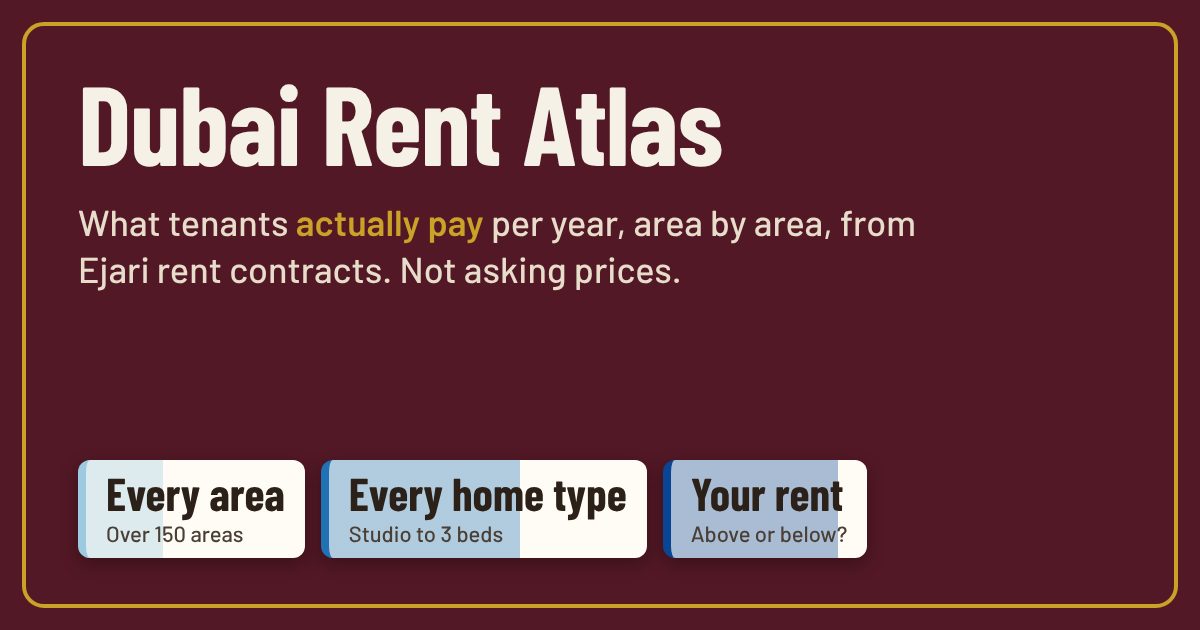
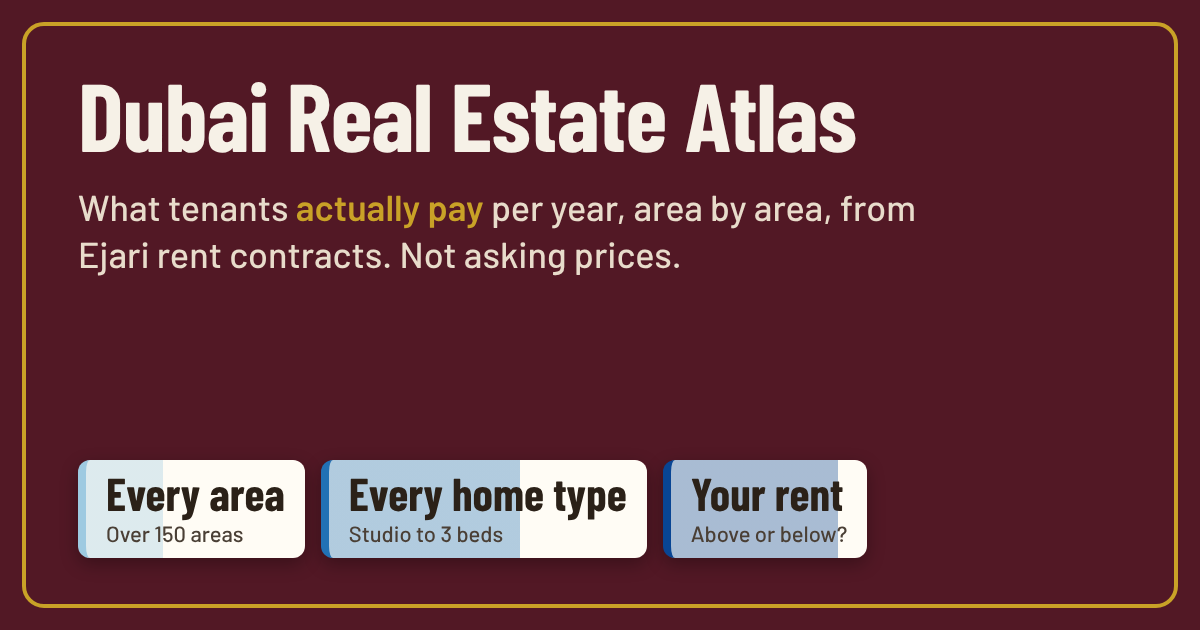
Rename to Dubai Real Estate Atlas
Visible name changed everywhere (English and Arabic), including link
previews, share text, area preview pages, reminders, export file name, share
image, workflow name and docs. Storage key and reminder IDs kept so saved
areas and calendar events keep working. Header buttons get their own row
above the longer title.

Claude-Session: https://claude.ai/code/session_01Cjh7JMxbY7R8pJuUa6JLcr

Changed region(s): [[0.0617, 0.3016, 0.7708, 0.4524], [0.0617, 0.1206, 0.7092, 0.2714]]

diff --git a/assets/app/i18n.js b/assets/app/i18n.js
@@ -20,7 +20,7 @@
 
   // Fixed page text, by its data-t key (index.html).
   const STATIC = {
-    title: 'أطلس إيجارات دبي',
+    title: 'أطلس دبي العقاري',
     tagline: 'ما <b>يدفعه المستأجرون فعلًا</b> سنويًا، من عقود الإيجار المسجلة في نظام إيجاري لدى دائرة الأراضي والأملاك في دبي. وليست أسعارًا معروضة.',
     filters: 'التصفية', ptype: 'نوع العقار', done: 'تم',
     'f.search': 'المجتمع أو المبنى', 'f.search.ph': 'مثلًا: JVC أو Marina أو Karama',
@@ -71,7 +71,7 @@
     ', to {d}': '، حتى {d}',
     '<b>New figures since your last visit</b>: rents now run to {to} (was {from}).': '<b>أرقام جديدة منذ زيارتك الأخيرة</b>: تمتد الإيجارات الآن حتى {to} (كانت حتى {from}).',
     "<b>The rent data didn't load.</b> This is usually a brief network hiccup.": '<b>لم يتم تحميل بيانات الإيجار.</b> غالبًا ما يكون ذلك خللًا عابرًا في الشبكة.',
-    'A reminder you set on Dubai Rent Atlas to see how rents have moved. Delete this event to stop it.': 'تذكير ضبطته في أطلس إيجارات دبي لمتابعة تغيّر الإيجارات. احذف هذا الحدث لإيقافه.',
+    'A reminder you set on Dubai Real Estate Atlas to see how rents have moved. Delete this event to stop it.': 'تذكير ضبطته في أطلس دبي العقاري لمتابعة تغيّر الإيجارات. احذف هذا الحدث لإيقافه.',
     'AED per m²': 'درهم لكل م²',
     'AED {v} per m² a year': 'AED {v} لكل م² سنويًا',
     'Add to my calendar': 'أضف إلى تقويمي',
@@ -112,7 +112,7 @@
     'Dubai Data has not published a newer update yet, so changes since then are not shown.': 'لم تنشر Dubai Data تحديثًا أحدث بعد، لذا لا تظهر التغييرات منذ ذلك الحين.',
     'Dubai Data page': 'صفحة Dubai Data',
     'Dubai Land Department Ejari contracts': 'عقود إيجاري لدى دائرة الأراضي والأملاك في دبي',
-    'Dubai Rent Atlas': 'أطلس إيجارات دبي',
+    'Dubai Real Estate Atlas': 'أطلس دبي العقاري',
     'Everything': 'الكل',
     'Every 3 months': 'كل 3 أشهر',
     'Every 6 months': 'كل 6 أشهر',
@@ -188,7 +188,7 @@
     'Switch to dark mode': 'التبديل إلى الوضع الداكن',
     'Switch to light mode': 'التبديل إلى الوضع الفاتح',
     'Tell me what changed when I come back': 'أخبرني بما تغيّر عند عودتي',
-    'That file is not a Dubai Rent Atlas export.': 'هذا الملف ليس ملف تصدير من أطلس إيجارات دبي.',
+    'That file is not a Dubai Real Estate Atlas export.': 'هذا الملف ليس ملف تصدير من أطلس دبي العقاري.',
     'That is in the cheapest quarter.': 'هذا ضمن الربع الأرخص.',
     'That is in the dearest quarter.': 'هذا ضمن الربع الأغلى.',
     'That is within the middle half.': 'هذا ضمن النصف الأوسط.',
@@ -301,7 +301,7 @@
   // Translate the page's fixed text and wire the language button.
   if (doc) {
     if (LANG === 'ar') {
-      doc.title = 'أطلس إيجارات دبي | إيجاري';
+      doc.title = 'أطلس دبي العقاري | إيجاري';
       doc.querySelectorAll('[data-t]').forEach(el => { const v = STATIC[el.dataset.t]; if (v) el.innerHTML = v; });
       doc.querySelectorAll('[data-t-ph]').forEach(el => { const v = STATIC[el.dataset.tPh]; if (v) el.placeholder = v; });
       doc.querySelectorAll('[data-t-aria]').forEach(el => { const v = STATIC[el.dataset.tAria]; if (v) el.setAttribute('aria-label', v); });

diff --git a/assets/app/companion.js b/assets/app/companion.js
@@ -302,7 +302,7 @@
       uid: 'market-check-every-' + months + '@dubai-rent-atlas',
       title: T('Check Dubai rents') + (first ? ': ' + first.area : ''),
       date: RI.addMonths(new Date().toISOString().slice(0, 10), months), everyMonths: months, alarmDays: 0,
-      details: T('A reminder you set on Dubai Rent Atlas to see how rents have moved. Delete this event to stop it.'),
+      details: T('A reminder you set on Dubai Real Estate Atlas to see how rents have moved. Delete this event to stop it.'),
       url: first ? siteUrl(first.area, first.unit) : location.origin + location.pathname,
     }), 'text/calendar');
   }
@@ -337,7 +337,7 @@
     const text = f ? T('{what} in {area}: {aed} a year (median), from Ejari contracts.', { what: unit ? U(unit) : T('All homes'), area: area.label, aed: aed(f.median) })
       : T('Rents in {area}, from Ejari contracts.', { area: area.label });
     if (navigator.share && matchMedia('(pointer:coarse)').matches) {
-      try { await navigator.share({ title: T('Dubai Rent Atlas'), text, url }); } catch { /* closed the sheet */ }
+      try { await navigator.share({ title: T('Dubai Real Estate Atlas'), text, url }); } catch { /* closed the sheet */ }
       return;
     }
     let ok = false;
@@ -410,7 +410,7 @@
         case 'clear-history': store.history = []; save(); renderMine(); break;
         case 'every-ics': everyIcs(); break;
         case 'seen': store.seenThrough = THROUGH; save(); el('ckNew').hidden = true; break;
-        case 'export': download('dubai-rent-atlas-my-data.json', JSON.stringify(store, null, 2), 'application/json'); break;
+        case 'export': download('dubai-real-estate-atlas-my-data.json', JSON.stringify(store, null, 2), 'application/json'); break;
         case 'wipe':
           if (confirm(T('Delete your saved areas, recent checks and settings from this browser?'))) {
             try { localStorage.removeItem(KEY); } catch (err) { /* nothing stored */ }
@@ -440,7 +440,7 @@
           for (const s of incoming.saved) if (RI.isSaved(store, s.area, s.unit) < 0) store.saved.push(s);
           store.saved = store.saved.slice(0, RI.MAX_SAVED); store.prefs = incoming.prefs;
           save(); renderMine();
-        }).catch(() => alert(T('That file is not a Dubai Rent Atlas export.')));
+        }).catch(() => alert(T('That file is not a Dubai Real Estate Atlas export.')));
       }
     });
     map.on('popupopen', onPopup);

diff --git a/index.html b/index.html
@@ -1,14 +1,14 @@
 <!doctype html>
 <html lang="en"><head><meta charset="utf-8"><meta name="viewport" content="width=device-width,initial-scale=1,viewport-fit=cover">
-<title>Dubai Rent Atlas | Ejari</title>
+<title>Dubai Real Estate Atlas | Ejari</title>
 <meta name="description" content="What tenants actually pay in rent across Dubai, area by area, from Ejari contracts registered with the Dubai Land Department. Not asking prices.">
-<meta property="og:type" content="website"><meta property="og:site_name" content="Dubai Rent Atlas">
-<meta property="og:title" content="Dubai Rent Atlas: what tenants actually pay">
+<meta property="og:type" content="website"><meta property="og:site_name" content="Dubai Real Estate Atlas">
+<meta property="og:title" content="Dubai Real Estate Atlas: what tenants actually pay">
 <meta property="og:description" content="Median yearly rent for every Dubai area, from Ejari contracts. Check your rent in seconds.">
 <meta property="og:url" content="https://jamalxcode.github.io/dubai_map/">
 <meta property="og:image" content="https://jamalxcode.github.io/dubai_map/assets/share.png">
 <meta property="og:image:width" content="1200"><meta property="og:image:height" content="630">
-<meta property="og:image:alt" content="Dubai Rent Atlas: what tenants actually pay, from Ejari contracts">
+<meta property="og:image:alt" content="Dubai Real Estate Atlas: what tenants actually pay, from Ejari contracts">
 <meta name="twitter:card" content="summary_large_image">
 <meta name="theme-color" content="#521825">
 <script>/* Theme before first paint: saved choice, else the phone/computer setting. */
@@ -32,7 +32,7 @@ document.documentElement.lang=l;document.documentElement.dir=l==='ar'?'rtl':'ltr
   <button class="theme" id="theme" type="button" aria-label="Switch to dark mode"><svg viewBox="0 0 24 24" fill="none" stroke="currentColor" stroke-width="2.2" stroke-linecap="round" stroke-linejoin="round" aria-hidden="true"><path d="M21 12.8A9 9 0 1 1 11.2 3a7 7 0 0 0 9.8 9.8z"/></svg><span>Dark</span></button></div>
   <div class="wrap">
     <div>
-      <h1 id="title" data-t="title">Dubai Rent Atlas</h1>
+      <h1 id="title" data-t="title">Dubai Real Estate Atlas</h1>
       <p data-t="tagline">What tenants <b>actually pay</b> per year, from rent contracts registered in Ejari with the Dubai Land Department. Not asking prices.</p>
     </div>
     <div class="big" aria-live="polite">

diff --git a/assets/app/atlas.css b/assets/app/atlas.css
@@ -406,3 +406,9 @@ html.viewerOpen,html.viewerOpen body{overflow:hidden}
 .viewSw button[aria-pressed="true"]{background:var(--sign);color:var(--on-sign)}
 .viewSw button:focus-visible{outline:2px solid var(--focus);outline-offset:-2px}
 @media (max-width:400px){.viewSw button{padding:0 7px;font-size:12px;height:32px}}
+/* "Dubai Real Estate Atlas" is long: the language and theme buttons get their own row above the title
+   instead of sharing its line, at every width. */
+.band .wrap{padding-top:66px}
+.band h1{padding-inline-end:0}
+@media (max-width:860px){.band .wrap{padding-top:54px}}
+@media (min-width:1100px){.band .wrap{padding-top:52px}.band h1,:root[lang="ar"] .band h1{padding-inline-end:0}}

diff --git a/assets/app/insights.js b/assets/app/insights.js
@@ -220,7 +220,7 @@
     const stamp = new Date().toISOString().replace(/[-:]/g, '').replace(/\.\d+Z$/, 'Z');
     const next = new Date(Date.parse(opts.date + 'T00:00:00Z') + 864e5).toISOString().slice(0, 10);
     const lines = [
-      'BEGIN:VCALENDAR', 'VERSION:2.0', 'PRODID:-//Dubai Rent Atlas//EN', 'CALSCALE:GREGORIAN', 'BEGIN:VEVENT',
+      'BEGIN:VCALENDAR', 'VERSION:2.0', 'PRODID:-//Dubai Real Estate Atlas//EN', 'CALSCALE:GREGORIAN', 'BEGIN:VEVENT',
       'UID:' + opts.uid, 'DTSTAMP:' + stamp, 'DTSTART;VALUE=DATE:' + ymd(opts.date), 'DTEND;VALUE=DATE:' + ymd(next),
       'SUMMARY:' + icsEsc(opts.title), 'DESCRIPTION:' + icsEsc(opts.details + (opts.url ? '\n' + opts.url : '')),
     ];

diff --git a/assets/app/labels.js b/assets/app/labels.js
@@ -1,4 +1,4 @@
-/* Map label placement for the Dubai Rent Atlas: no DOM, no Leaflet, so the rules are unit-tested
+/* Map label placement for the Dubai Real Estate Atlas: no DOM, no Leaflet, so the rules are unit-tested
  * (tests/labels.test.mjs). The page projects areas to pixels, asks for placements, then draws them.
  *
  *   RentLabels.place(items, size, { pad, sum, blocks })

diff --git a/scripts/share_pages.py b/scripts/share_pages.py
@@ -61,20 +61,20 @@ def page(a, through):
     url = SITE + "a/" + slug(a["label"]) + "/"
     return f"""<!doctype html>
 <html lang="en"><head><meta charset="utf-8"><meta name="viewport" content="width=device-width,initial-scale=1">
-<title>{e(title)} | Dubai Rent Atlas</title>
+<title>{e(title)} | Dubai Real Estate Atlas</title>
 <meta name="description" content="{e(desc)}">
 <link rel="canonical" href="{e(url)}">
-<meta property="og:type" content="website"><meta property="og:site_name" content="Dubai Rent Atlas">
+<meta property="og:type" content="website"><meta property="og:site_name" content="Dubai Real Estate Atlas">
 <meta property="og:title" content="{e(title)}"><meta property="og:description" content="{e(desc)}">
 <meta property="og:url" content="{e(url)}"><meta property="og:image" content="{e(IMAGE)}">
 <meta property="og:image:width" content="1200"><meta property="og:image:height" content="630">
-<meta property="og:image:alt" content="Dubai Rent Atlas: what tenants actually pay, from Ejari contracts">
+<meta property="og:image:alt" content="Dubai Real Estate Atlas: what tenants actually pay, from Ejari contracts">
 <meta name="twitter:card" content="summary_large_image">
 <meta http-equiv="refresh" content="0;url={e(target)}">
 <script>(function(){{var u=new URLSearchParams(location.search).get('unit');
 location.replace({json.dumps(target)}+(u?'&unit='+encodeURIComponent(u):''))}})();</script>
 </head><body style="font-family:system-ui,sans-serif;padding:24px">
-<p><a href="{e(target)}">{e(title)}: open the Dubai Rent Atlas</a></p>
+<p><a href="{e(target)}">{e(title)}: open the Dubai Real Estate Atlas</a></p>
 </body></html>
 """
 

diff --git a/tests/test_share_pages.py b/tests/test_share_pages.py
@@ -24,7 +24,7 @@ class SharePageTests(unittest.TestCase):
 
     def test_page_leads_with_one_bedroom_and_forwards_to_the_map(self):
         html = sp.page(JVC, "2026-11-13")
-        self.assertIn("<title>Jumeirah Village Circle rents: AED 70,000 a year for a 1-bedroom apartment | Dubai Rent Atlas</title>", html)
+        self.assertIn("<title>Jumeirah Village Circle rents: AED 70,000 a year for a 1-bedroom apartment | Dubai Real Estate Atlas</title>", html)
         self.assertIn('property="og:image" content="https://jamalxcode.github.io/dubai_map/assets/share.png"', html)
         self.assertIn("to 13 Nov 2026", html)
         self.assertIn('url=../../?area=Jumeirah%20Village%20Circle"', html)

diff --git a/scripts/check_fresh.py b/scripts/check_fresh.py
@@ -112,7 +112,7 @@ def main():
     summary = os.environ.get("GITHUB_STEP_SUMMARY")
     if summary:
         with open(summary, "a", encoding="utf-8") as f:
-            f.write("## Dubai Rent Atlas freshness\n\n" + report + "\n")
+            f.write("## Dubai Real Estate Atlas freshness\n\n" + report + "\n")
     sys.exit(1 if found else 0)
 
 

diff --git a/docs/DECISIONS.md b/docs/DECISIONS.md
@@ -1,4 +1,4 @@
-# Dubai Rent Atlas: design notes, goals and decision log
+# Dubai Real Estate Atlas: design notes, goals and decision log
 
 **Last updated:** 2026-11-10  
 **Repository:** `jamalxcode/dubai_map`  
@@ -354,6 +354,10 @@ The owner: in dark mode the price labels don't follow the price key. They were d
 
 The owner asked for rent, sale price and gross yield buttons on the map, the key following the value, with the 5% edge rule. A **Rent · Sale price · Yield** switch sits on the map (top right), kept in step with the "Labels show" menu. Each view recolours the labels with the same blue scale, its own key trimmed to the 5th-95th percentile (today, 1-bedroom: rent AED 38k-120k, sale AED 660k-2.75M, yield 5.2%-8.6%), its own legend title and ends, dial top and headline ("Average sale price in view"). Sale prices per bedroom count now come through the build from Dubai Data (`by_unit.sale`); for Flats and Studios a rent-contract-weighted "typical" sale price, as for rents. The 56 older districts have rents only, so they appear in the rent view only. A view without data is hidden.
 
+## Decision on 2026-11-17 (thirty-sixth pass): renamed to Dubai Real Estate Atlas
+
+The owner renamed the site "Dubai Real Estate Atlas" (Arabic: أطلس دبي العقاري), which fits now that it shows sale prices and yields as well as rents. Changed everywhere a person sees it: page title, header, link previews and share text, area preview pages, calendar reminders, the export file name, the share image, the deploy workflow's name and the docs. Kept on purpose: the browser storage key (`rentAtlas`, so visitors keep their saved areas) and the calendar reminder IDs (so existing reminders aren't duplicated). The longer title gets its own row under the language and theme buttons at every width. The repository and site address (`dubai_map`) are unchanged.
+
 ## Prioritized next work
 
 **Status on 2026-11-16:** P0 is done (Dubai Data fallback, live Pages deploy, data checks and fixtures). P1 is built and tested; the daily feed waits for the Dubai Pulse key (DLD's own service is off until DLD agrees in writing). P2 item 6 is partly done: every area sits at a point inside its official Dubai Municipality community; shaded outlines are next. P2 item 7 is partly done (per-bedroom medians, rent dial and shading; ranges and trends wait for contract-level data). P3 item 10 is done: tests (Python, Node, Chromium + axe), phone layout, accessibility in light, dark and Arabic, and the front-end split with self-hosted libraries. Since 16 Nov the site is also in Arabic, shares with link previews, shows photos near each area and lets the visitor pick the base map's language.
@@ -396,6 +400,8 @@ The owner asked for rent, sale price and gross yield buttons on the map, the key
 - OSM copyright: https://www.openstreetmap.org/copyright
 
 ## Change log
+
+- 2026-11-17: Renamed to Dubai Real Estate Atlas.
 
 - 2026-11-17: Rent, sale price and yield views on the map, each with its own trimmed key.
 

diff --git a/docs/CONVERSATION.md b/docs/CONVERSATION.md
@@ -211,6 +211,10 @@ The dark cards turned the blue tints grey-brown. Price labels now stay light ivo
 
 A Rent · Sale price · Yield switch on the map; each view has its own key from the 5th to 95th percentile of its values (1-bedroom today: rent AED 38k-120k, sale AED 660k-2.75M, yield 5.2%-8.6%), and the legend, dials and headline follow. Sale prices per bedroom count added to the data build.
 
+### 17 Nov · "change the name to dubai real estate atlas, not dubai rent atlas"
+
+Renamed everywhere visible (English and Arabic: أطلس دبي العقاري), including link previews, share text, reminders and the share image; saved areas and reminders keep working. The header buttons now sit on their own row above the longer title. The site address stays https://jamalxcode.github.io/dubai_map/.
+
 ## Open items
 
 1. **Dubai Pulse API key** (owner, **waiting on Digital Dubai support** since 16 Nov): data.dubai's sign-up page rejects visitors from outside the UAE. Once access to `dld_rent_contracts-open-api` is granted, add `DUBAI_PULSE_KEY` / `DUBAI_PULSE_SECRET` as repo secrets. This unlocks contract-level detail (trends, AED/m², new vs renewal) and replaces the interim sources.

diff --git a/CLAUDE.md b/CLAUDE.md
@@ -4,7 +4,7 @@ Guidance for Claude Code sessions in this repository.
 
 ## Overview
 
-Dubai Rent Atlas (https://jamalxcode.github.io/dubai_map/) maps what tenants actually pay in yearly rent across Dubai, area by area, from Ejari contracts registered with the Dubai Land Department. Python collectors run in GitHub Actions three times a day and publish small JSON files; the site is a static page (no build step) in English and Arabic.
+Dubai Real Estate Atlas (https://jamalxcode.github.io/dubai_map/) maps what tenants actually pay in yearly rent across Dubai, area by area, from Ejari contracts registered with the Dubai Land Department. Python collectors run in GitHub Actions three times a day and publish small JSON files; the site is a static page (no build step) in English and Arabic.
 
 Read before changing behaviour:
 - `docs/BUSINESS_RULES.md`: every rule and threshold, with the file that applies it. Keep it in step with the code.
